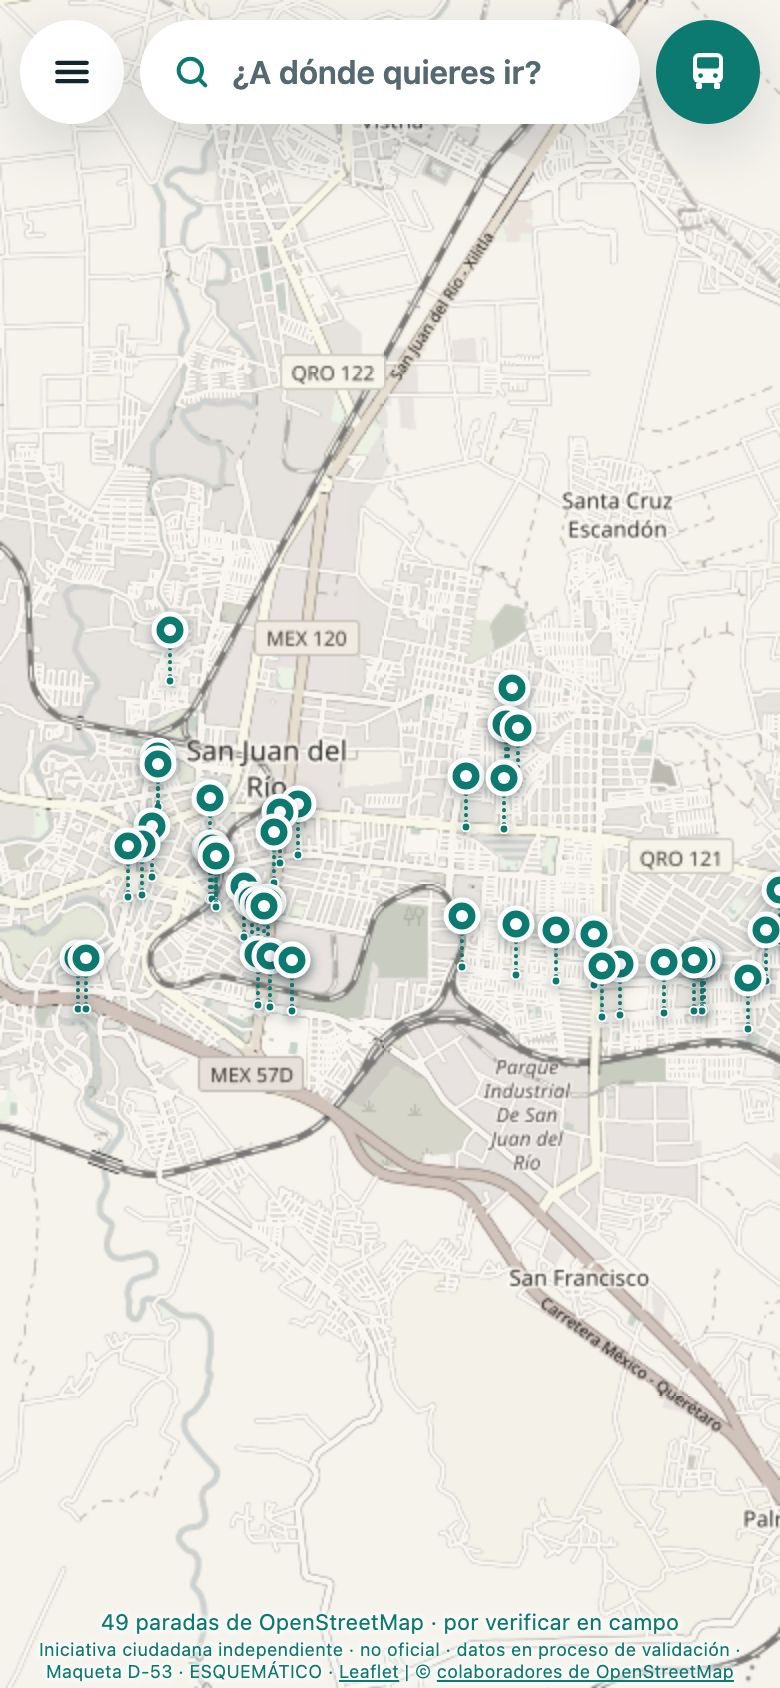
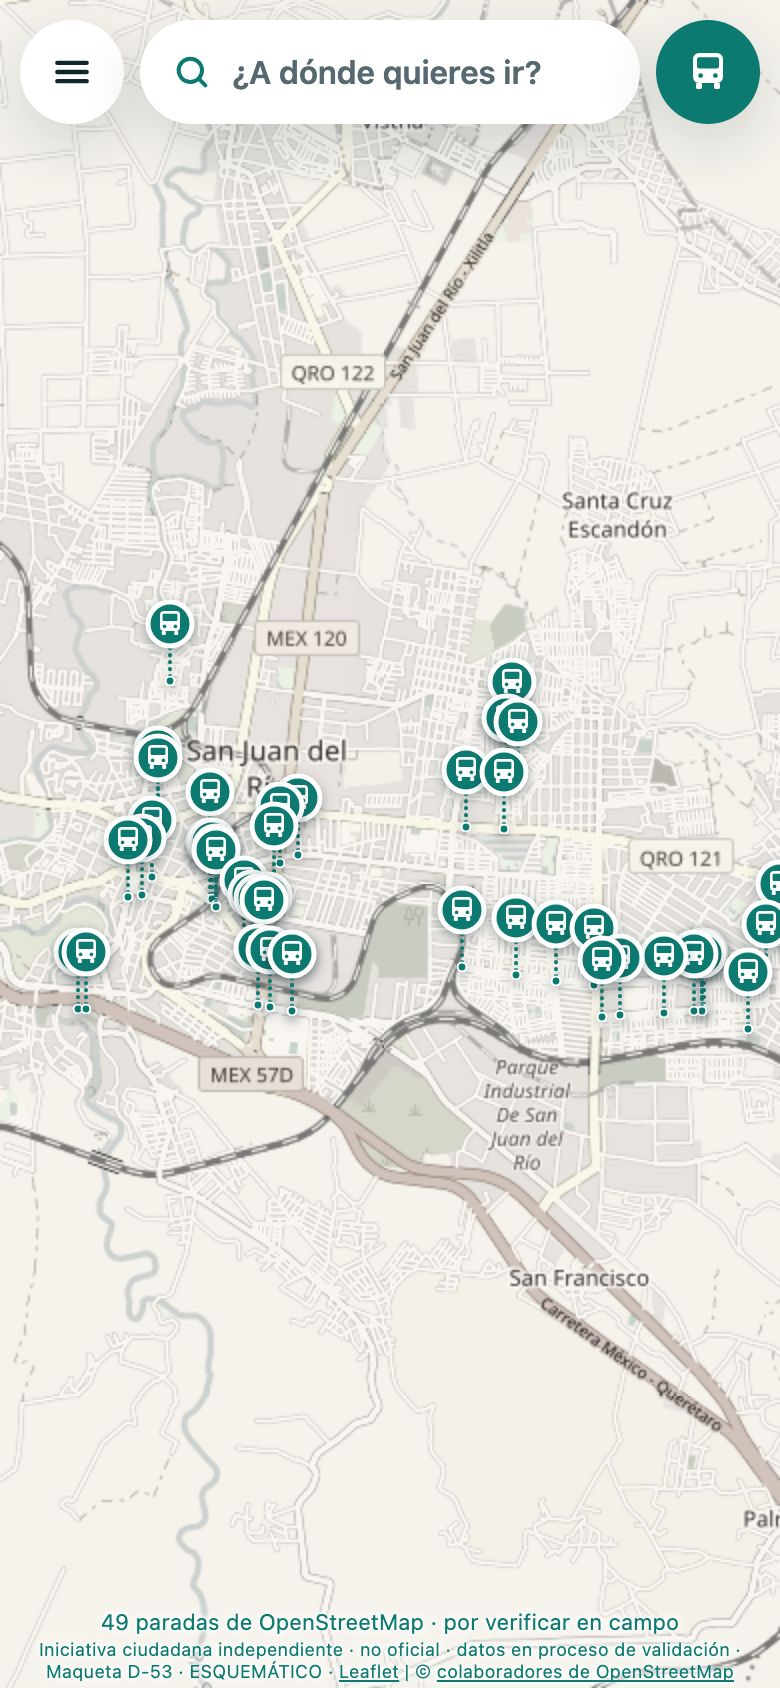
B2 · E-03 · D-53 maqueta, ajuste 3: camión dentro del círculo de parada

diff --git a/docs/maquetas/d53/maqueta.html b/docs/maquetas/d53/maqueta.html
@@ -232,8 +232,9 @@ const flotante = document.getElementById('flotante');
 // Pictograma del pin de parada (D-49), en versión de botón: camión de frente.
 const BUS = (c = 'currentColor', v = '#fff') => `<svg width="24" height="24" viewBox="0 0 24 24" aria-hidden="true"><rect x="4.5" y="2.5" width="15" height="15" rx="3" fill="${c}"/><rect x="6.5" y="4.6" width="11" height="5.6" rx="1" fill="${v}"/><circle cx="8.3" cy="13.8" r="1.2" fill="${v}"/><circle cx="15.7" cy="13.8" r="1.2" fill="${v}"/><rect x="6" y="17.5" width="3" height="3" rx=".7" fill="${c}"/><rect x="15" y="17.5" width="3" height="3" rx=".7" fill="${c}"/></svg>`;
 // Ajuste 2 (6:57 pm): parada como círculo levantado; una guía de puntitos baja al punto exacto.
-const PARADA = '<svg width="20" height="38" viewBox="0 0 20 38" aria-hidden="true"><line x1="10" y1="19" x2="10" y2="34" stroke="#0d7a72" stroke-width="2" stroke-dasharray="0.1 3.4" stroke-linecap="round"/><circle cx="10" cy="35.5" r="2.2" fill="#0d7a72" stroke="#fff" stroke-width="1"/><circle cx="10" cy="10" r="8" fill="#0d7a72" stroke="#fff" stroke-width="2.5"/><circle cx="10" cy="10" r="3" fill="#fff"/></svg>';
-const icParada = () => icono(PARADA, [20, 38], [10, 35.5]);
+// Ajuste 3 (7:03 pm): el círculo lleva el camión de frente.
+const PARADA = '<svg width="26" height="44" viewBox="0 0 26 44" aria-hidden="true"><line x1="13" y1="25" x2="13" y2="40" stroke="#0d7a72" stroke-width="2" stroke-dasharray="0.1 3.4" stroke-linecap="round"/><circle cx="13" cy="41.5" r="2.2" fill="#0d7a72" stroke="#fff" stroke-width="1"/><circle cx="13" cy="13" r="11" fill="#0d7a72" stroke="#fff" stroke-width="2.5"/><rect x="8" y="6.5" width="10" height="10" rx="2" fill="#fff"/><rect x="9.3" y="7.9" width="7.4" height="3.6" rx=".6" fill="#0d7a72"/><circle cx="10.3" cy="14.2" r=".9" fill="#0d7a72"/><circle cx="15.7" cy="14.2" r=".9" fill="#0d7a72"/><rect x="8.9" y="16.5" width="2" height="2" rx=".5" fill="#fff"/><rect x="15.1" y="16.5" width="2" height="2" rx=".5" fill="#fff"/></svg>';
+const icParada = () => icono(PARADA, [26, 44], [13, 41.5]);
 const PIN = '<svg width="30" height="38" viewBox="0 0 30 38"><path d="M15 37s12-12.2 12-22A12 12 0 0 0 3 15c0 9.8 12 22 12 22z" fill="#0d7a72" stroke="#fff" stroke-width="2"/><rect x="8" y="6" width="14" height="13" rx="2.6" fill="#fff"/><rect x="9.8" y="8" width="10.4" height="5" rx="1" fill="#0d7a72"/><path d="M15 8v5" stroke="#fff" stroke-width="1.2"/><circle cx="11.2" cy="16.2" r="1.1" fill="#0d7a72"/><circle cx="18.8" cy="16.2" r="1.1" fill="#0d7a72"/><rect x="9.4" y="18.4" width="2.8" height="2.4" rx=".6" fill="#fff"/><rect x="17.8" y="18.4" width="2.8" height="2.4" rx=".6" fill="#fff"/></svg>';
 const BUS_CHICO = '<svg width="18" height="18" viewBox="0 0 24 24" fill="none" stroke="currentColor" stroke-width="2" stroke-linecap="round"><rect x="5" y="3" width="14" height="14" rx="3"/><path d="M5 10h14"/><circle cx="9" cy="13.5" r=".7" fill="currentColor"/><circle cx="15" cy="13.5" r=".7" fill="currentColor"/><path d="M8 20v-3M16 20v-3"/></svg>';
 const RELOJ = '<svg width="18" height="18" viewBox="0 0 24 24" fill="none" stroke="currentColor" stroke-width="2" stroke-linecap="round"><circle cx="12" cy="12" r="8.5"/><path d="M12 7.5V12l3 2"/></svg>';

diff --git a/docs/DECISIONES.md b/docs/DECISIONES.md
@@ -1423,6 +1423,9 @@ Miguel).
   4. **«estimado» en minúscula** y letra chica en las leyendas (sigue dicho en
      pantalla, regla 2).
   5. **Insignia R1 más grande** en el aviso de ruta elegida con el menú cerrado.
+- **Ajuste 3 (Miguel, 20 nov 2026, 7:03 pm):** el círculo de la parada lleva
+  dentro **el camión de frente** (el mismo pictograma del botón). «Se ve
+  increíble.» Ya en la maqueta.
 - **Decide:** Miguel. Se construye en el chat siguiente (contexto de este chat
   al 29 %, umbral de aviso 30 %).
 
